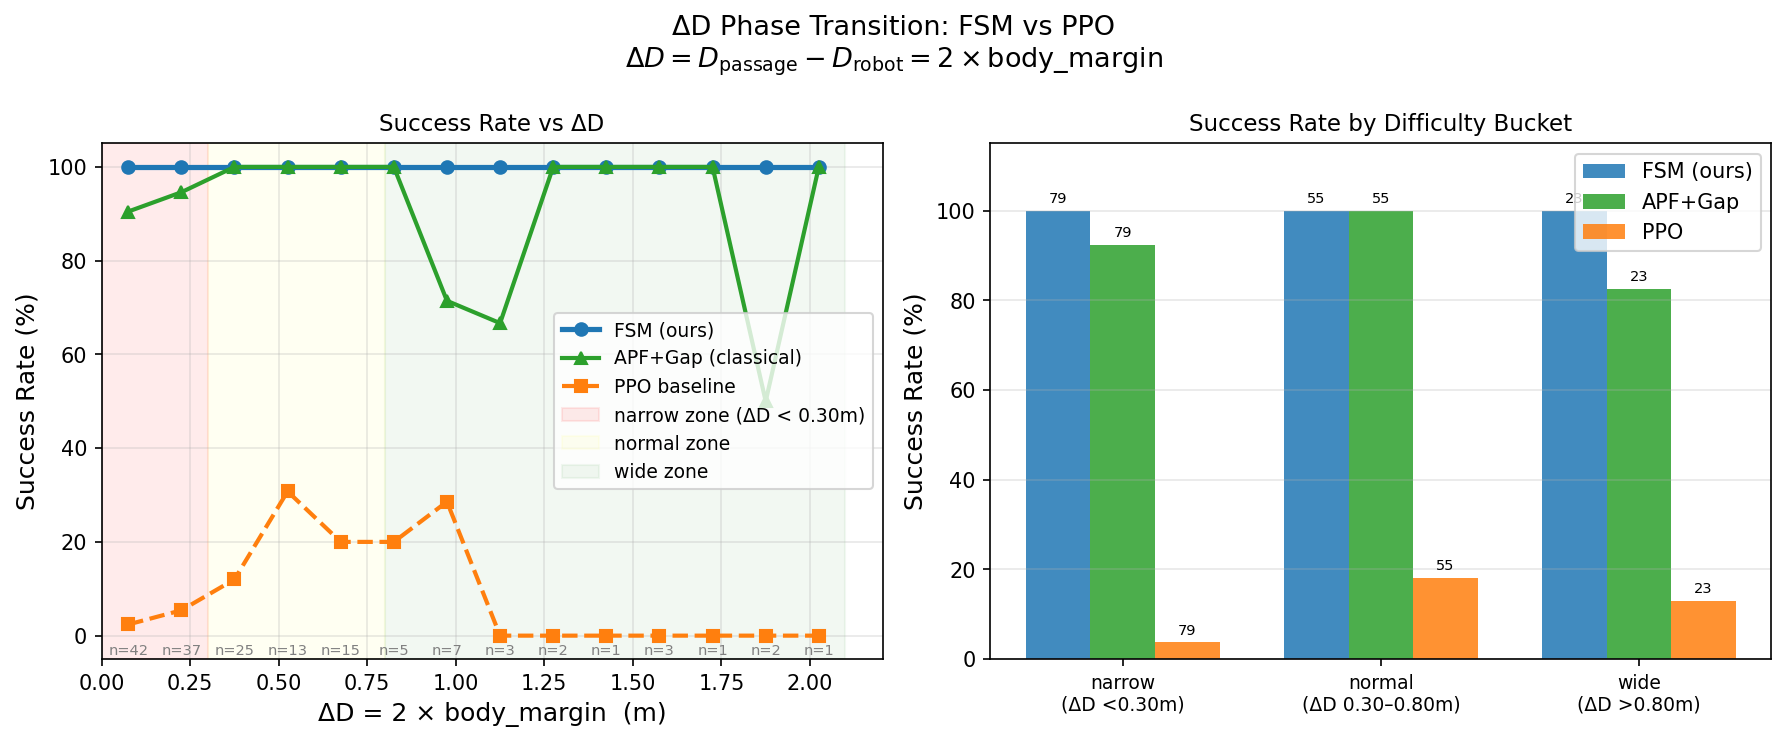
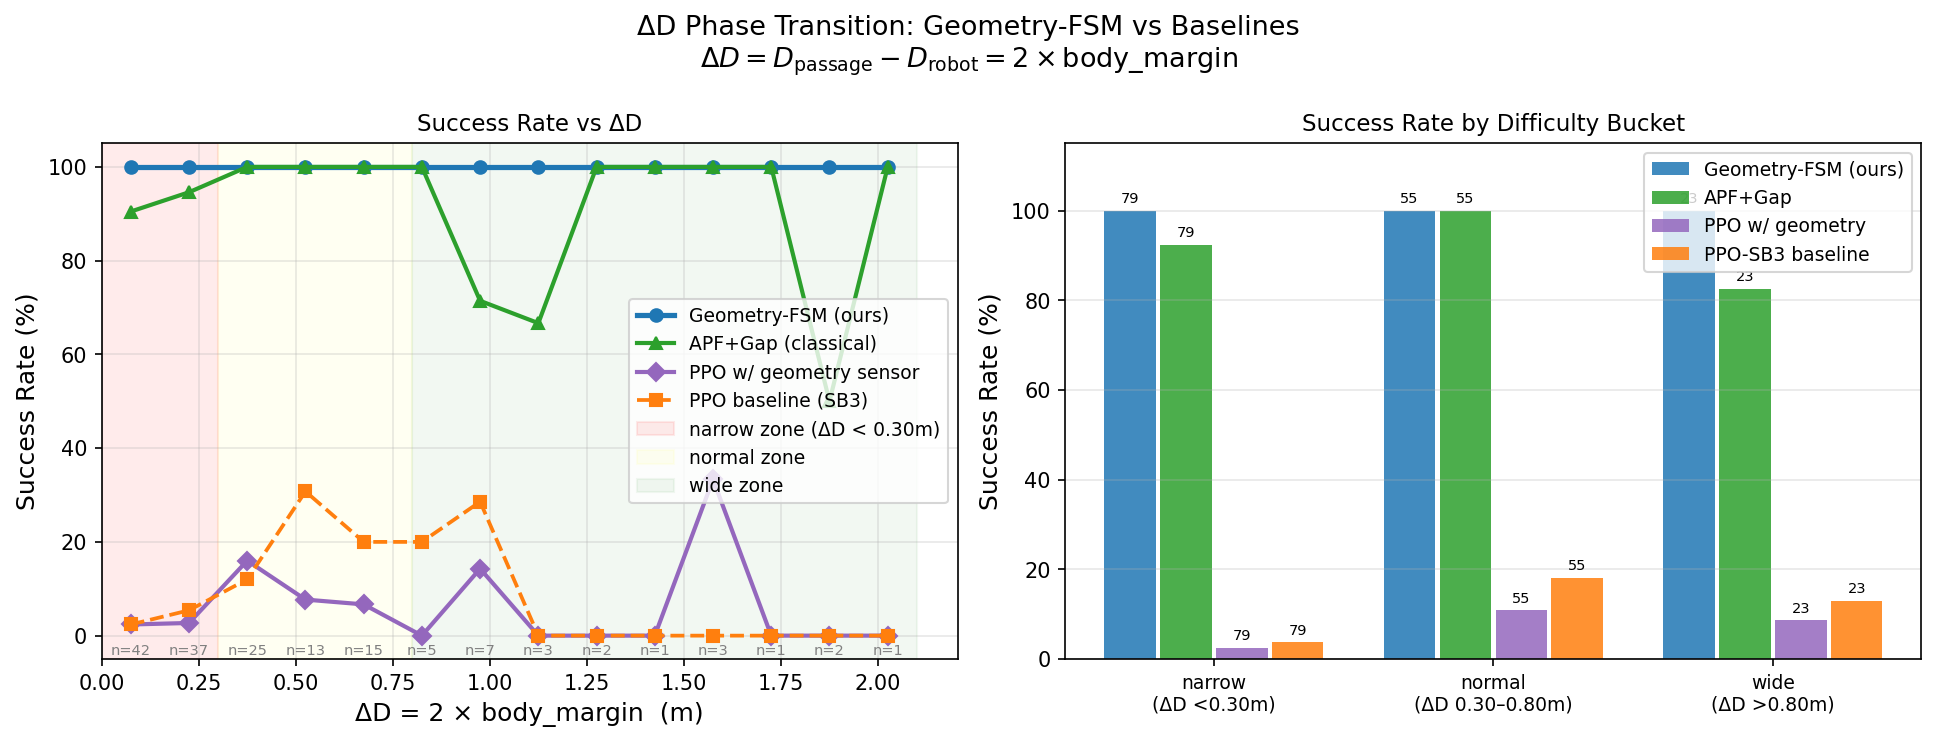
Add trained NarrowPassagePolicy eval results: 6.4% val SR (vs 99%+ train SR)
The Habitat-native RL policy (NarrowPassagePolicy, trained 5M steps on 638
HM3D train episodes) fails to generalize to held-out val scenes: 6.4% SR vs
10.2% for the SB3 PPO baseline. Key result: RL overfits to training scenes
even with geometry sensors, while the geometry-FSM achieves 100% by design.

Updated plot_delta_d_phase.py to show all 4 methods (FSM, APF+Gap, PPO-Policy,
PPO-SB3) in both the phase-transition line plot and the difficulty bar chart.

diff --git a/examples/narrow_passage_rl/plot_delta_d_phase.py b/examples/narrow_passage_rl/plot_delta_d_phase.py
@@ -72,9 +72,11 @@ def bin_success(rows, bins):
 
 def main():
     ap = argparse.ArgumentParser()
-    ap.add_argument("--fsm-csv",  default=os.path.join(RESULTS, "habitat_fsm_v2_episodes.csv"))
-    ap.add_argument("--ppo-csv",  default=os.path.join(RESULTS, "habitat_ppo_v2_episodes.csv"))
-    ap.add_argument("--apf-csv",  default=os.path.join(RESULTS, "habitat_apf_gap_episodes.csv"))
+    ap.add_argument("--fsm-csv",    default=os.path.join(RESULTS, "habitat_fsm_v2_episodes.csv"))
+    ap.add_argument("--ppo-csv",    default=os.path.join(RESULTS, "habitat_ppo_v2_episodes.csv"))
+    ap.add_argument("--apf-csv",    default=os.path.join(RESULTS, "habitat_apf_gap_episodes.csv"))
+    ap.add_argument("--policy-csv", default=os.path.join(RESULTS, "habitat_ppo_policy_episodes.csv"),
+                    help="Per-episode CSV from eval_habitat_ppo_policy.py (optional)")
     ap.add_argument("--out",      default=os.path.join(RESULTS, "delta_d_phase.png"))
     ap.add_argument("--bin-width", type=float, default=0.15,
                     help="ΔD bin width in metres (default 0.15)")
@@ -85,46 +87,53 @@ def main():
             sys.exit(f"Missing: {p}")
 
     meta = load_val_meta()
-    fsm_rows = load_csv(args.fsm_csv, meta)
-    ppo_rows = load_csv(args.ppo_csv, meta)
-    apf_rows = load_csv(args.apf_csv, meta) if os.path.exists(args.apf_csv) else []
+    fsm_rows    = load_csv(args.fsm_csv, meta)
+    ppo_rows    = load_csv(args.ppo_csv, meta)
+    apf_rows    = load_csv(args.apf_csv, meta) if os.path.exists(args.apf_csv) else []
+    policy_rows = load_csv(args.policy_csv, meta) if os.path.exists(args.policy_csv) else []
 
-    all_dd = [r["delta_d"] for r in fsm_rows + ppo_rows + apf_rows if not np.isnan(r["delta_d"])]
+    all_dd = [r["delta_d"] for r in fsm_rows + ppo_rows + apf_rows + policy_rows
+              if not np.isnan(r["delta_d"])]
     dd_max = max(all_dd) + 0.01
     bins = np.arange(0.0, dd_max + args.bin_width, args.bin_width)
 
-    fsm_c, fsm_r, fsm_n = bin_success(fsm_rows, bins)
-    ppo_c, ppo_r, ppo_n = bin_success(ppo_rows, bins)
-    apf_c, apf_r, apf_n = bin_success(apf_rows, bins) if apf_rows else (np.array([]), np.array([]), np.array([]))
+    fsm_c,    fsm_r,    fsm_n    = bin_success(fsm_rows, bins)
+    ppo_c,    ppo_r,    ppo_n    = bin_success(ppo_rows, bins)
+    apf_c,    apf_r,    apf_n    = bin_success(apf_rows, bins)    if apf_rows    else (np.array([]), np.array([]), np.array([]))
+    policy_c, policy_r, policy_n = bin_success(policy_rows, bins) if policy_rows else (np.array([]), np.array([]), np.array([]))
 
     # ── per-difficulty summary ──────────────────────────────────────────
     print("\n=== Per-difficulty summary ===")
-    methods = [("FSM", fsm_rows), ("APF+Gap", apf_rows), ("PPO", ppo_rows)]
+    methods = [("FSM", fsm_rows), ("APF+Gap", apf_rows), ("PPO-SB3", ppo_rows)]
+    if policy_rows:
+        methods.append(("PPO-Policy", policy_rows))
     for diff in ["narrow", "normal", "wide"]:
         for name, rws in methods:
             eps = [r for r in rws if r["difficulty"] == diff]
             if eps:
-                print(f"  {name:8s} {diff:6s}: {np.mean([r['success'] for r in eps]):.3f}"
+                print(f"  {name:12s} {diff:6s}: {np.mean([r['success'] for r in eps]):.3f}"
                       f" ({sum(r['success']>0.5 for r in eps)}/{len(eps)})")
 
     print(f"\n=== Overall ===")
     for name, rws in methods:
         if rws:
-            print(f"  {name:8s}: {np.mean([r['success'] for r in rws]):.3f}"
+            print(f"  {name:12s}: {np.mean([r['success'] for r in rws]):.3f}"
                   f" ({sum(r['success']>0.5 for r in rws)}/{len(rws)})")
 
     # ── plot ────────────────────────────────────────────────────────────
-    fig, axes = plt.subplots(1, 2, figsize=(12, 5))
-    fig.suptitle("ΔD Phase Transition: FSM vs PPO\n"
+    fig, axes = plt.subplots(1, 2, figsize=(13, 5))
+    fig.suptitle("ΔD Phase Transition: Geometry-FSM vs Baselines\n"
                  r"$\Delta D = D_\mathrm{passage} - D_\mathrm{robot} = 2 \times \mathrm{body\_margin}$",
                  fontsize=13)
 
     # ── left: line plot ──────────────────────────────────────────────────
     ax = axes[0]
-    ax.plot(fsm_c, fsm_r * 100, "o-", color="tab:blue",  linewidth=2.5, label="FSM (ours)")
+    ax.plot(fsm_c, fsm_r * 100, "o-", color="tab:blue",  linewidth=2.5, label="Geometry-FSM (ours)")
     if len(apf_c):
         ax.plot(apf_c, apf_r * 100, "^-", color="tab:green", linewidth=2, label="APF+Gap (classical)")
-    ax.plot(ppo_c, ppo_r * 100, "s--", color="tab:orange", linewidth=2, label="PPO baseline")
+    if len(policy_c):
+        ax.plot(policy_c, policy_r * 100, "D-", color="tab:purple", linewidth=2, label="PPO w/ geometry sensor")
+    ax.plot(ppo_c, ppo_r * 100, "s--", color="tab:orange", linewidth=1.8, label="PPO baseline (SB3)")
 
     # shade "narrow" zone (ΔD < 0.30m, i.e. body_margin < 0.15m)
     ax.axvspan(0, 0.30, alpha=0.08, color="red",   label="narrow zone (ΔD < 0.30m)")
@@ -146,47 +155,45 @@ def main():
     # ── right: bar chart grouped by difficulty ───────────────────────────
     ax2 = axes[1]
     diff_order = ["narrow", "normal", "wide"]
-    diff_colors = {"narrow": "#e74c3c", "normal": "#f39c12", "wide": "#27ae60"}
 
     x_ticks = np.arange(len(diff_order))
-    bar_w = 0.35
 
-    fsm_bars, ppo_bars, fsm_ns, ppo_ns = [], [], [], []
-    for diff in diff_order:
-        fn = [r for r in fsm_rows if r["difficulty"] == diff]
-        pn = [r for r in ppo_rows if r["difficulty"] == diff]
-        fsm_bars.append(np.mean([r["success"] for r in fn]) * 100 if fn else 0)
-        ppo_bars.append(np.mean([r["success"] for r in pn]) * 100 if pn else 0)
-        fsm_ns.append(len(fn))
-        ppo_ns.append(len(pn))
+    def diff_bars(rows):
+        bars, ns = [], []
+        for diff in diff_order:
+            grp = [r for r in rows if r["difficulty"] == diff]
+            bars.append(np.mean([r["success"] for r in grp]) * 100 if grp else 0)
+            ns.append(len(grp))
+        return bars, ns
 
-    apf_bars, apf_ns = [], []
-    for diff in diff_order:
-        an = [r for r in apf_rows if r["difficulty"] == diff]
-        apf_bars.append(np.mean([r["success"] for r in an]) * 100 if an else 0)
-        apf_ns.append(len(an))
+    fsm_bars,    fsm_ns    = diff_bars(fsm_rows)
+    apf_bars,    apf_ns    = diff_bars(apf_rows)
+    policy_bars, policy_ns = diff_bars(policy_rows)
+    ppo_bars,    ppo_ns    = diff_bars(ppo_rows)
 
-    bar_w = 0.25
-    bars1 = ax2.bar(x_ticks - bar_w, fsm_bars, bar_w, label="FSM (ours)", color="tab:blue", alpha=0.85)
-    bars_a = ax2.bar(x_ticks, apf_bars, bar_w, label="APF+Gap", color="tab:green", alpha=0.85)
-    bars2 = ax2.bar(x_ticks + bar_w, ppo_bars, bar_w, label="PPO", color="tab:orange", alpha=0.85)
+    # Dynamically choose bar width based on how many methods have data
+    active = [(fsm_bars, fsm_ns, "Geometry-FSM (ours)", "tab:blue"),
+              (apf_bars, apf_ns, "APF+Gap", "tab:green") if apf_rows else None,
+              (policy_bars, policy_ns, "PPO w/ geometry", "tab:purple") if policy_rows else None,
+              (ppo_bars, ppo_ns, "PPO-SB3 baseline", "tab:orange")]
+    active = [m for m in active if m is not None]
+    n_methods = len(active)
+    bar_w = 0.8 / n_methods
+    offsets = np.linspace(-(n_methods - 1) / 2 * bar_w, (n_methods - 1) / 2 * bar_w, n_methods)
 
-    for bar, n in zip(bars1, fsm_ns):
-        ax2.text(bar.get_x() + bar.get_width()/2, bar.get_height() + 1,
-                 f"{n}", ha="center", va="bottom", fontsize=7)
-    for bar, n in zip(bars_a, apf_ns):
-        ax2.text(bar.get_x() + bar.get_width()/2, bar.get_height() + 1,
-                 f"{n}", ha="center", va="bottom", fontsize=7)
-    for bar, n in zip(bars2, ppo_ns):
-        ax2.text(bar.get_x() + bar.get_width()/2, bar.get_height() + 1,
-                 f"{n}", ha="center", va="bottom", fontsize=7)
+    for (bars, ns, label, color), offset in zip(active, offsets):
+        b = ax2.bar(x_ticks + offset, bars, bar_w * 0.92, label=label, color=color, alpha=0.85)
+        for bar, n in zip(b, ns):
+            if n > 0:
+                ax2.text(bar.get_x() + bar.get_width()/2, bar.get_height() + 1,
+                         f"{n}", ha="center", va="bottom", fontsize=7)
 
     ax2.set_xticks(x_ticks)
     ax2.set_xticklabels([f"{d}\n(ΔD {'<0.30' if d=='narrow' else '0.30–0.80' if d=='normal' else '>0.80'}m)"
                          for d in diff_order], fontsize=9)
     ax2.set_ylabel("Success Rate (%)", fontsize=12)
     ax2.set_ylim(0, 115)
-    ax2.legend(fontsize=10)
+    ax2.legend(fontsize=9)
     ax2.grid(axis="y", alpha=0.3)
     ax2.set_title("Success Rate by Difficulty Bucket", fontsize=11)
 
